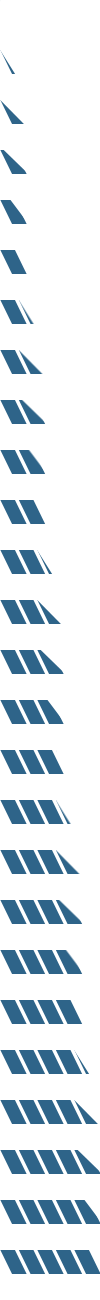
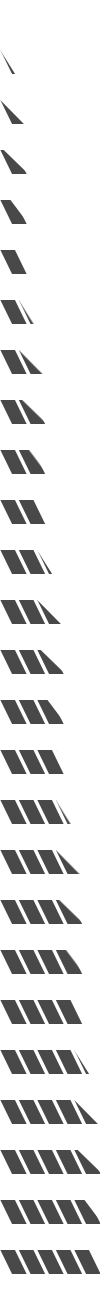
UI: Ratings cursor & color update

Changed region(s): [[0.03, 0.0308, 0.99, 0.9846]]

diff --git a/static/js4/rating.js b/static/js4/rating.js
@@ -50,10 +50,13 @@ var Rating = function(type, id, rating_user, rating, fave, ratable, force_hdpi) 
 			current_rating = self.rating;
 		}
 		effect.set_rating(current_rating);
+		self.update_ratable(self.ratable);
 	};
 
 	self.reset_fave = function() {
-		effect.set_fave(self.fave);
+		if (self.fave) $add_class(self.el, "rating_fave");
+		else $remove_class(self.el, "rating_fave");
+		$remove_class(self.el, "fave_hover");
 	};
 
 	var get_rating_from_mouse = function(evt) {
@@ -96,11 +99,10 @@ var Rating = function(type, id, rating_user, rating, fave, ratable, force_hdpi) 
 	};
 
 	var click = function(evt) {
-		if (!self.ratable) return;
 		var new_rating = get_rating_from_mouse(evt);
 		// fave toggle
 		if (new_rating === 0) {
-			effect.set_fave(!self.fave);
+			// effect.set_fave(!self.fave);
 			if (self.type == "song") {
 				API.async_get("fave_song", { "fave": !self.fave, "song_id": id });
 			}
@@ -108,7 +110,7 @@ var Rating = function(type, id, rating_user, rating, fave, ratable, force_hdpi) 
 				API.async_get("fave_album", { "fave": !self.fave, "album_id": id });
 			}
 		}
-		else {
+		else if (self.ratable) {
 			effect.set_rating(new_rating);
 			API.async_get("rate", { "rating": new_rating, "song_id": id });
 		}
@@ -131,6 +133,8 @@ var Rating = function(type, id, rating_user, rating, fave, ratable, force_hdpi) 
 
 	self.update_ratable = function(ratable) {
 		self.ratable = ratable;
+		if (self.ratable) $add_class(self.el, "ratable");
+		else $remove_class(self.el, "ratable");
 	};
 
 	self.update = function(rating_user, rating, fave, ratable) {
@@ -142,6 +146,10 @@ var Rating = function(type, id, rating_user, rating, fave, ratable, force_hdpi) 
 		self.reset_fave();
 	};
 
+	self.fave_mouse_over = function() {
+		$add_class(self.el, "fave_hover");
+	};
+
 	self.show_hover = function() {
 		self.el.insertBefore(self.el.firstChild, hover_box);
 		hover_box.style.opacity = 1;
@@ -149,21 +157,23 @@ var Rating = function(type, id, rating_user, rating, fave, ratable, force_hdpi) 
 
 	self.hide_hover = function() {
 		Fx.remove_element(hover_box);
+		 offset_left = null;
+		 offset_top = null;
 	};
 
 	self.reset_rating();
 	self.reset_fave();
 
 	if (User.user_id > 1) {
-		self.el.addEventListener("mouseover", effect.fave_mouse_over);
+		self.el.addEventListener("mouseover", self.fave_mouse_over);
 		self.el.addEventListener("mouseout", self.reset_fave);
+		self.el.addEventListener("click", click);
+		$add_class(fave_solid, "faveable");
 
 		if (type == "song") {
 			self.el.addEventListener("mouseout", self.hide_hover);
 			self.el.addEventListener("mousemove", on_mouse_move);
 			self.el.addEventListener("mouseout", self.reset_rating);
-			self.el.addEventListener("click", click);
-			self.el.addEventListener("mouseout", function() { offset_left = null; offset_top = null; });
 		}
 	}
 

diff --git a/static/js4/fx.js b/static/js4/fx.js
@@ -183,41 +183,19 @@ var Fx = function() {
 
 	self.Rating = function(element) {
 		var r = {};
-		r.fave_is_on = false;
-		var current_rating;
-		var fave_class;
-		var rating_class;
-
-		r.change_class = function() {
-			if (element.className != rating_class + " " + fave_class) {
-				element.setAttribute("class", rating_class + " " + fave_class);
-			}
-		};
 
 		r.set_rating = function(new_rating) {
-			current_rating = new_rating;
-			r.start(current_rating);
+			r.start(new_rating);
 		};
 
 		r.change_to_site_rating = function() {
-			rating_class = "rating_site";
-			r.change_class();
+			$remove_class(element, "rating_user");
+			$add_class(element, "rating_site");
 		};
 
 		r.change_to_user_rating = function() {
-			rating_class = "rating_user";
-			r.change_class();
-		};
-
-		r.set_fave = function(fave) {
-			if (fave) fave_class = "rating_fave";
-			else fave_class = "";
-			r.change_class();
-		};
-
-		r.fave_mouse_over = function() {
-			fave_class = "fave_hover";
-			r.change_class();
+			$remove_class(element, "rating_site");
+			$add_class(element, "rating_user");
 		};
 
 		r.update = function(now) {

diff --git a/static/style4/ratings.css b/static/style4/ratings.css
@@ -7,6 +7,10 @@
 	height: 1.2em;
 }
 
+.ratable {
+	cursor: pointer;
+}
+
 body.small_screen .rating_site, body.small_screen .rating_user {
 	margin-top: 1px;
 }
@@ -36,6 +40,10 @@ body.small_screen .fave_lined {
 	@include transition-wtime(200ms, opacity);
 	opacity: 0;
 	padding-top: 3px;
+}
+
+.faveable {
+	cursor: pointer;
 }
 
 body.small_screen .fave_solid {
